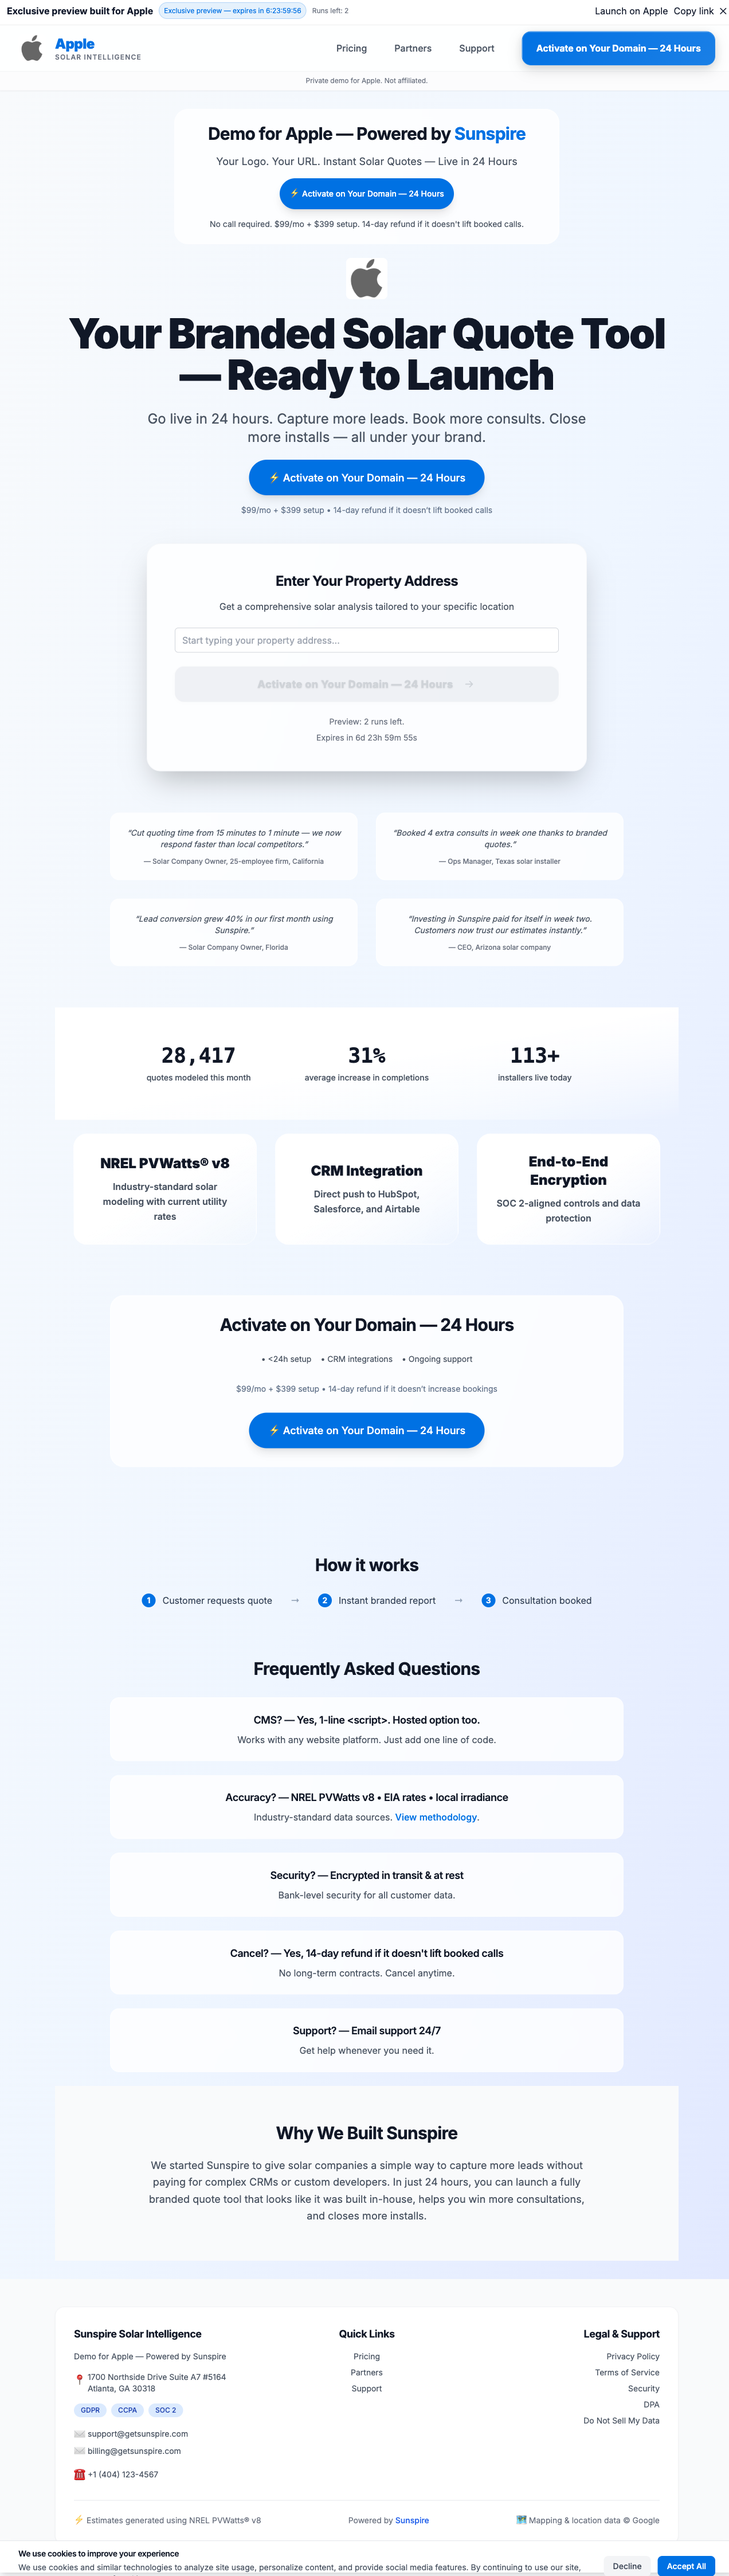
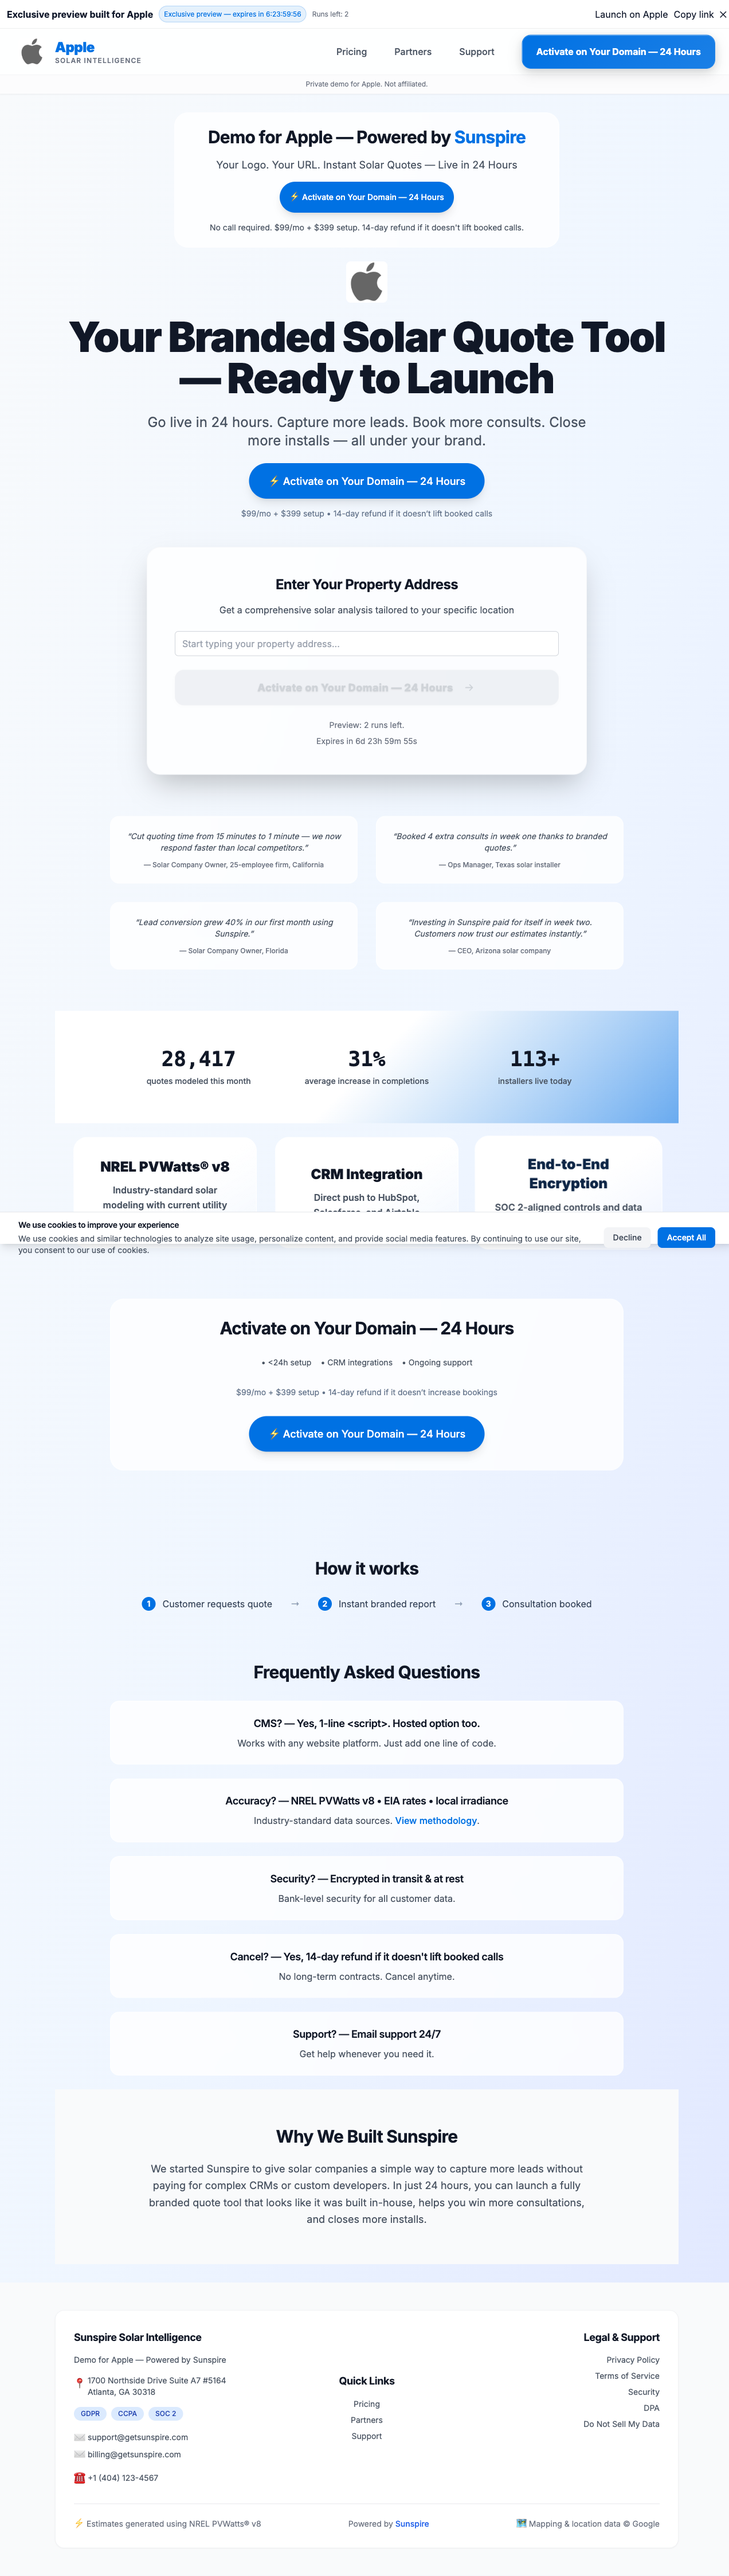
Fix KPI band gradient with hardcoded Apple blue color for visibility

diff --git a/app/page.tsx b/app/page.tsx
@@ -464,8 +464,18 @@ function HomeContent() {
           </div>
 
           {/* KPI Band - Single band only */}
-          <div className="py-16 bg-gradient-to-br from-white via-white to-[var(--brand-primary)]/25 relative">
-            <div className="absolute inset-0 bg-gradient-to-br from-transparent via-white/60 to-[var(--brand-primary)]/40 opacity-100"></div>
+          <div 
+            className="py-16 relative"
+            style={{ 
+              background: 'linear-gradient(135deg, white, white, rgba(0, 113, 227, 0.25))',
+            }}
+          >
+            <div 
+              className="absolute inset-0 opacity-100"
+              style={{
+                background: 'linear-gradient(135deg, transparent, rgba(255,255,255,0.6), rgba(0, 113, 227, 0.4))',
+              }}
+            ></div>
             <div className="max-w-4xl mx-auto px-4 sm:px-6 lg:px-8 relative z-10">
               <div className="grid grid-cols-3 gap-12 text-center">
                 <div className="group">
